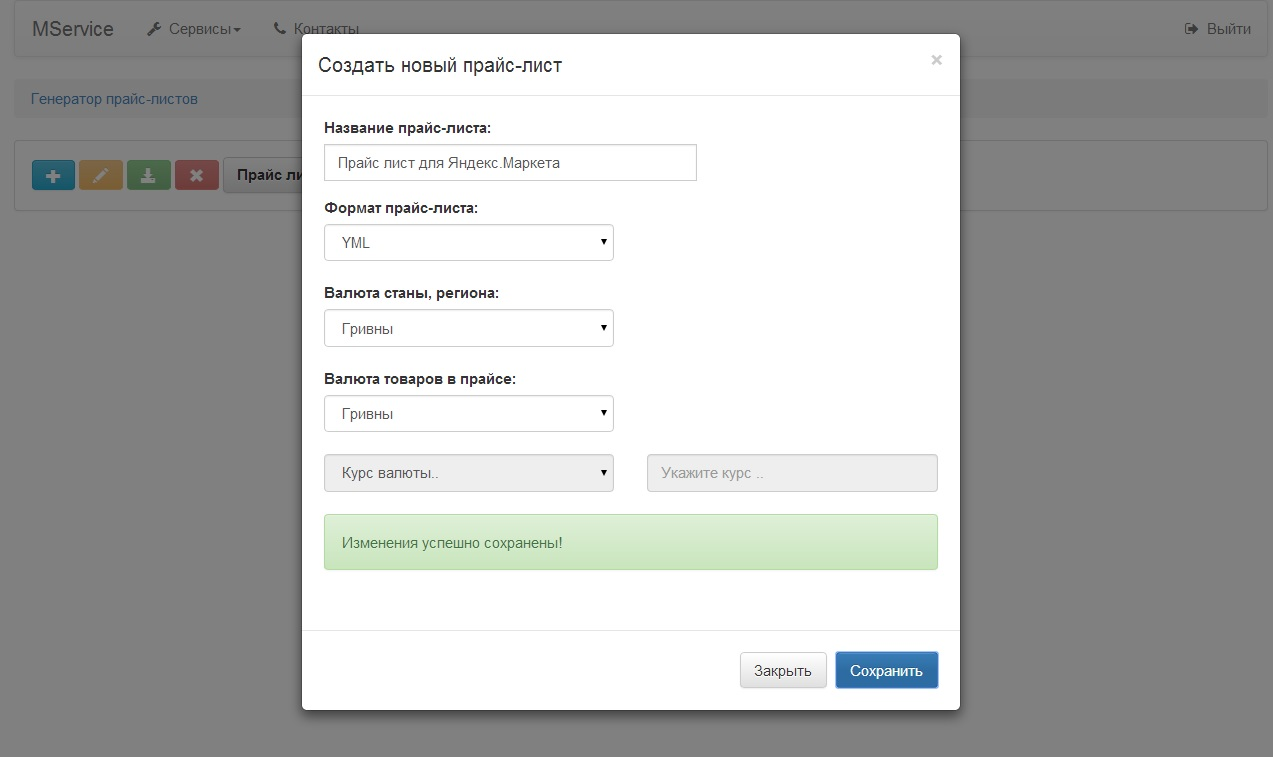
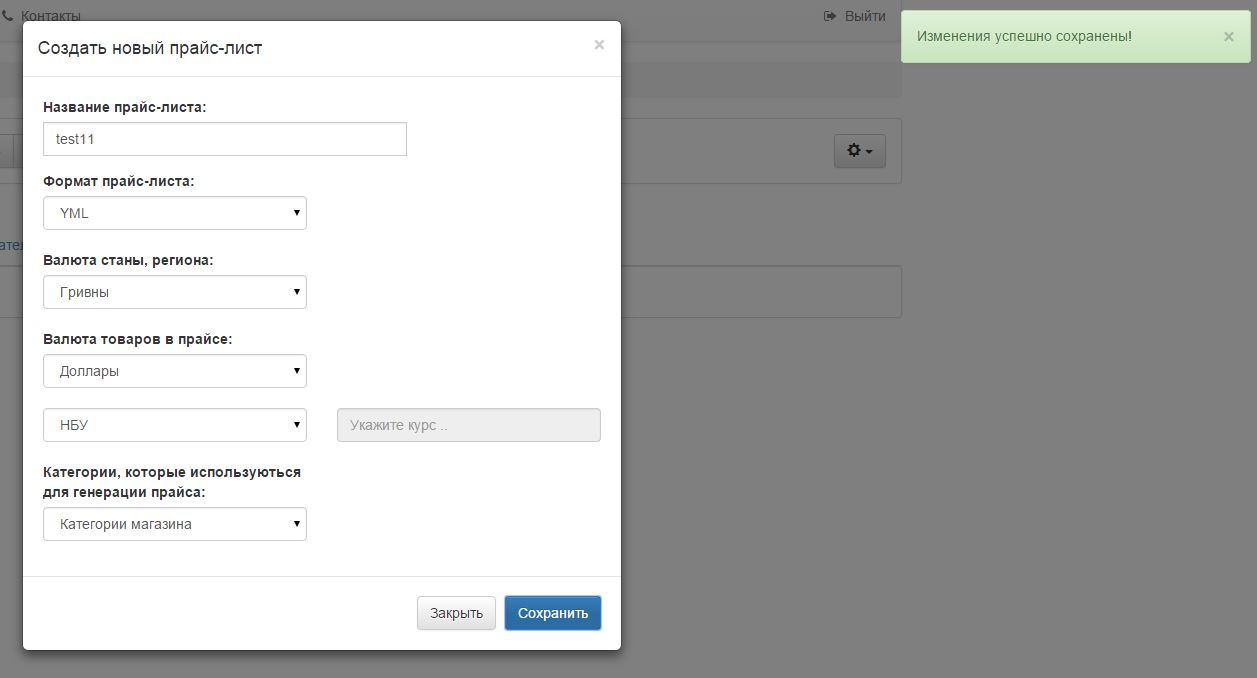
creating price example is updated

diff --git a/public/pricelist-generator.html b/public/pricelist-generator.html
@@ -156,6 +156,12 @@
                                     <li>Курс валюты - курс валюты прайса по отношению к валюте региона (указываеться,
                                         если валюта страны или региона не совпадает с валютой товаров прайс-листа)
                                     </li>
+                                    <li>Курс валюты - курс валюты прайса по отношению к валюте региона (указываеться,
+                                        если валюта страны или региона не совпадает с валютой товаров прайс-листа)
+                                    </li>
+                                    <li>Категории, которые используются для генерации прайса - вы можете указать на основании каких категорий
+                                        генерировать прайс: категорий вашего магазина (по умолчанию) или альтернативных категорий.
+                                    </li>
                                 </ul></li>
                             </ul>
                             <hr>
@@ -167,7 +173,7 @@
                             <hr><img class="img-responsive img-customer" src="/assets/images/generator/add-price-ok.jpg"><hr>
                             </p>
                             <p>После успешного сохранения прайса, нажмите “Закрыть”.
-                                Вы должны увидеть только что созданный прайс в списке прайс-листов:
+                                Теперь вы сможете увидеть только что созданный прайс в списке прайс-листов:
                             <p><hr>
                             <img class="img-responsive img-customer" src="/assets/images/generator/new-price-in-list.jpg">
                             </p>
@@ -179,12 +185,12 @@
                         </div>
 
                         <div class="col-md-12 column">
-                            <p>&nbsp;&nbsp;&nbsp;&nbsp;&nbsp;Выберете, только что созданный прайс-лист (нажмите на кнопку с его названием).
+                            <p>&nbsp;&nbsp;&nbsp;&nbsp;&nbsp;Выберете, только что созданный прайс-лист в списке прайсов.
                                 После этого, вы увидите список категорий вашего интернет-магазина, а также форму для поиска товаров по их названию.</p>
                             <p><hr><img class="img-responsive img-customer" src="/assets/images/generator/list-of-categories.jpg"><hr></p>
                             </p>
                             <p>&nbsp;&nbsp;&nbsp;&nbsp;&nbsp;Давайте добавим несколько товаров из первой категории в нашем списке ("Парты детские")
-                                в выбраный прайс-лист ("Прайс лист для Яндекс.Маркета"). Первое что нужно сделать -
+                                в выбраный прайс-лист ("Прайс для Яндекс.Маркета"). Первое что нужно сделать -
                                 это выбрать необходимую категорию, нажав на ее название. После этого вы увидите таблицу с товарами выбранной категории.<p></p>
                             <p><hr><img class="img-responsive img-customer" src="/assets/images/generator/table-of-products.jpg"><hr></p>
                             </p>
@@ -199,7 +205,8 @@
                         </div>
 
                         <div class="col-md-12 column">
-                            <p>Чтобы сгенерировать прайс-лист, нажмите кнопку “Скачать прайс”. После чего, вы увидите диалоговое окно для сохранения файла прайса-листа.</p>
+                            <p>Чтобы сгенерировать прайс-лист, нажмите кнопку “Скачать прайс”. После чего, вы увидите прайс в новой вкладке браузера.
+                                Его можна сохранить на ваш компьютер. (прайс также будет доступен по ссылке в интернете)</p>
                             <p>
                             <hr> <img class="img-responsive img-customer" src="/assets/images/generator/download-price.jpg"><hr>
                             </p>

diff --git a/app/views/priceUpdated.scala.html b/app/views/priceUpdated.scala.html
@@ -344,10 +344,10 @@
 
                                                         <div class="row top-buffer">
                                                             <div class="col-xs-6">
-                                                                <label for="categoriesTypeSelect">Категории, которые используються для генерации прайса:</label>
+                                                                <label for="categoriesTypeSelect">Категории, которые используются для генерации прайса:</label>
                                                                 <select id="categoriesTypeSelect" class="form-control">
                                                                     <option value="false">Категории магазина</option>
-                                                                    <option value="true">Пользовательские категории</option>
+                                                                    <option value="true">Альтернативные категории</option>
                                                                 </select>
                                                             </div>
                                                         </div>
@@ -466,7 +466,7 @@
                                                                     <label for="categoriesTypeSelectEdit">Категории, которые используються для генерации прайса:</label>
                                                                     <select id="categoriesTypeSelectEdit" class="form-control">
                                                                         <option value="false">Категории магазина</option>
-                                                                        <option value="true">Пользовательские категории</option>
+                                                                        <option value="true">Альтернативные категории</option>
                                                                     </select>
                                                                 </div>
                                                             </div>
@@ -531,7 +531,7 @@
             <!-- Nav tabs -->
             <ul class="nav nav-tabs" role="tablist">
                 <li class="active"><a href="#clientsCategories" role="tab" data-toggle="tab">Категории магазина</a></li>
-                <li><a href="#customCategories" role="tab" data-toggle="tab">Пользовательские категории</a></li>
+                <li><a href="#customCategories" role="tab" data-toggle="tab">Альтернативные категории</a></li>
             </ul>
 
             <!-- Tab panes -->
@@ -634,14 +634,14 @@
 
                             <div class="input-group">
                                 <div class="form-group">
-                                    <label class="control-label" for="productCategory">Пользовательская категория продукта:</label>
+                                    <label class="control-label" for="productCategory">Альтернативная категория продукта:</label>
                                     <input type="text" class="form-control" id="productCategoryInPrice" value="">
                                 </div>
                             </div>
 
                             <div class="input-group">
                                 <div class="form-group">
-                                    <label class="control-label" for="customProductCategory">Выберите пользовательскую категорию продукта:</label>
+                                    <label class="control-label" for="customProductCategory">Выберите альтернативную категорию продукта:</label>
                                     <select id="customProductCategory" class="form-control">
                                     </select>
                                 </div>
